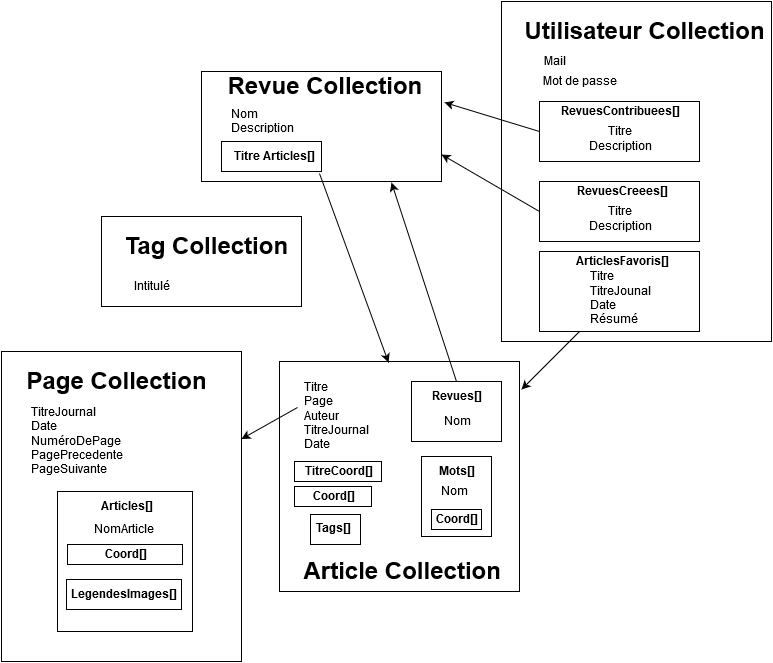
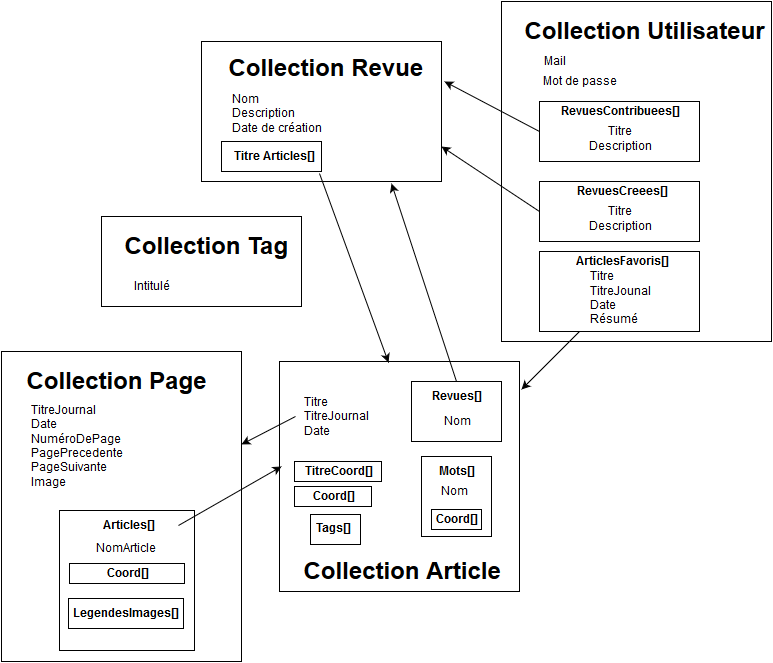
Modif partie BDD

diff --git a/report/4_conception/input/archi_bdd.tex b/report/4_conception/input/archi_bdd.tex
@@ -2,6 +2,11 @@
 \section{Architecture de la base de données}
 \label{sec:bdd}
 
+\subsection{Origine de nos données}
+\label{subsec:dataOrigin}
+
+Comme nous l'avons dit dans l'introduction, nos données sont issus de fichiers XML que nous fournit l’équipe Intuidoc. Dans chaque fichier se trouve le contenu d'une page de journal. Pour récupérer ces données, nous avons réalisé un programme \textit{parser}. Ce programme prend les données qui nous intéresse et les insère directement dans la base de données MongoDB si elle est accessible. Il peut aussi créer des fichiers JSON qui contiennent les données pour pouvoir les importer dans une base de données. Le programme est en PHP car c'est un langage qui permet de lire le contenu de fichiers XML facilement.
+
 \subsection{Base de données}
 \label{subsec:mongo}
 
@@ -25,20 +30,28 @@ Voilà un exemple de document que nous aurons dans la collection Revues :
 
 Chaque document dispose d’un id afin de pouvoir le retrouver rapidement. Cela permet aussi de pouvoir référencer d’autres objets de la base de données. 
 
+Notre base de données est composée de cinq collections :
+\begin{itemize}
+	\item \textbf{Article :} elle contient les informations de chaque articles : son titre, le titre du journal, la date. Pour pouvoir mettre l'article en surbrillance, nous stockons aussi les coordonnées de l'article sur la page. Nous faisons de même pour le titre dans le cas d'une recherche parmi les  titres. Quant au contenu de l'article, les mots sont stockés avec leurs coordonnées afin de pouvoir, eux aussi, les surligner s'ils correspondent aux termes recherchés. Enfin, la liste des revues contenant l'article et la liste des tags sont stockées ici.
+	\item \textbf{Page :} les informations de chaque page sont stockées ici (titre, date, numéro de page, page précédente et suivante, nom de l'image). De plus, la liste des articles (titre et coordonnées) ainsi que la liste des légendes des images sont aussi stockées car ces informations sont affichées lorsqu'on visualise une page.
+	\item \textbf{Revue :} les revues de presse sont stockées dans cette collection. Nous stockons le nom, la description et la date de création de la revue ainsi que la liste des ses articles avec leur titre. Ces derniers sont en effet affichés sur la page de la revue.
+	\item \textbf{Utilisateur :} ici sont stockés le mail et le mot de passe crypté de chaque utilisateur. Nous y conservons aussi les listes des revues contribuées, créées avec leur titre et leur description ainsi que la liste des articles favoris avec leur titre, journal, date et un extrait.
+	\end{itemize}
+
 Le diagramme de la figure \ref{modelbdd} résume la modélisation de notre base de données.
 
 
 \begin{figure}[H]
         \centering
         \includegraphics[width=\textwidth]{figure/ModelBDD.png}
-            \caption{Modélisation de la base de données}
+            \caption{Modélisation de la base de données MongoDB}
             \label{modelbdd}
 \end{figure}
 
-Certaines informations peuvent sembler répétitives comme la liste des articles favoris qui contient les mêmes informations que celles contenues dans les documents de la collection Article. Cependant, avec MongoDB, nous ne pouvons pas faire de jointure entre les tables. Si nous voulons les informations sur l’article, il sera nécessaire de faire une deuxième requête dans la base avec l’id du document de l’article pour obtenir ces informations. C’est pourquoi certaines informations sont dupliquées, notamment celles qui seront affichées. Cela permet d'économiser une requête à la base de données et donc du temps. Pour notre exemple, lors de l’affichage de la liste des favoris dans l’espace utilisateur, il est indiqué le titre, le titre du journal, la date et un extrait de l’article. 
+Certaines informations peuvent sembler répétitives comme la liste des articles favoris qui contient les mêmes informations que celles contenues dans les documents de la collection Article. Cependant, avec MongoDB, nous ne pouvons pas faire de jointure entre les tables. Si nous voulons les informations sur l’article, il sera nécessaire de faire une deuxième requête dans la base avec l’id du document de l’article pour obtenir ces informations. C’est pourquoi certaines informations sont dupliquées, notamment celles qui seront affichées. Cela permet d'économiser des requêtes à la base de données et donc du temps. Cependant, étant donné que nous faisons les requêtes de recherche avec Elasticsearch\ref{subsec:elastic}, cela rend les requêtes très rapides. Par conséquent, il est possible que nous ne perdions pas de temps à faire des requêtes pour récupérer certaines données au lieu d'utiliser les données dupliquées. La duplication serait donc facultative et nous pourrions ainsi économiser en quantité de données stockées.
 
 
-Chaque flèche représente une référence, c’est-à-dire que l’id du document correspondant est stockée afin de pouvoir le retrouver dans la base. Les tableaux Coord[] stockent les coordonnées du  titre ou du mot. Cela nous permettra de le mettre en surbrillance lorsqu’il est l’objet de la recherche. 
+Chaque flèche représente une référence, c’est-à-dire que l’id du document correspondant est stockée afin de pouvoir le retrouver dans la base. 
 
 \subsection{Elasticsearch}
 \label{subsec:elastic}
